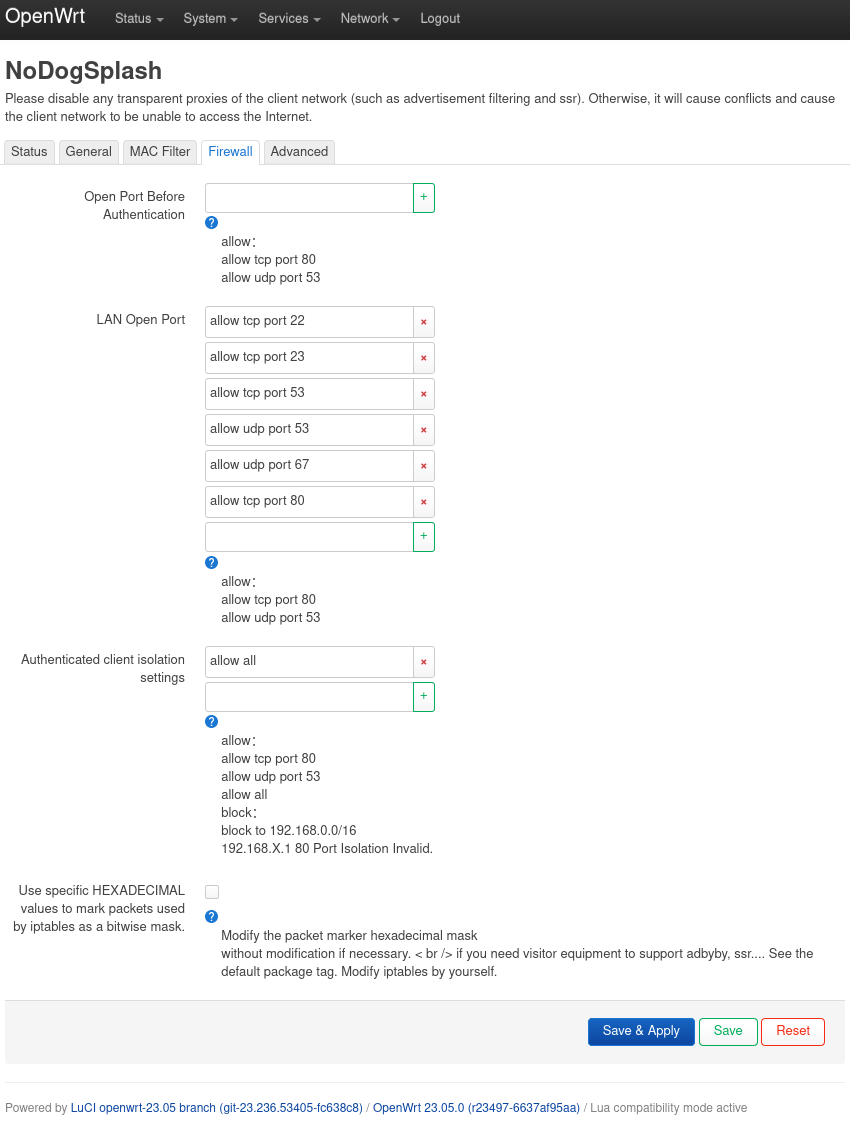
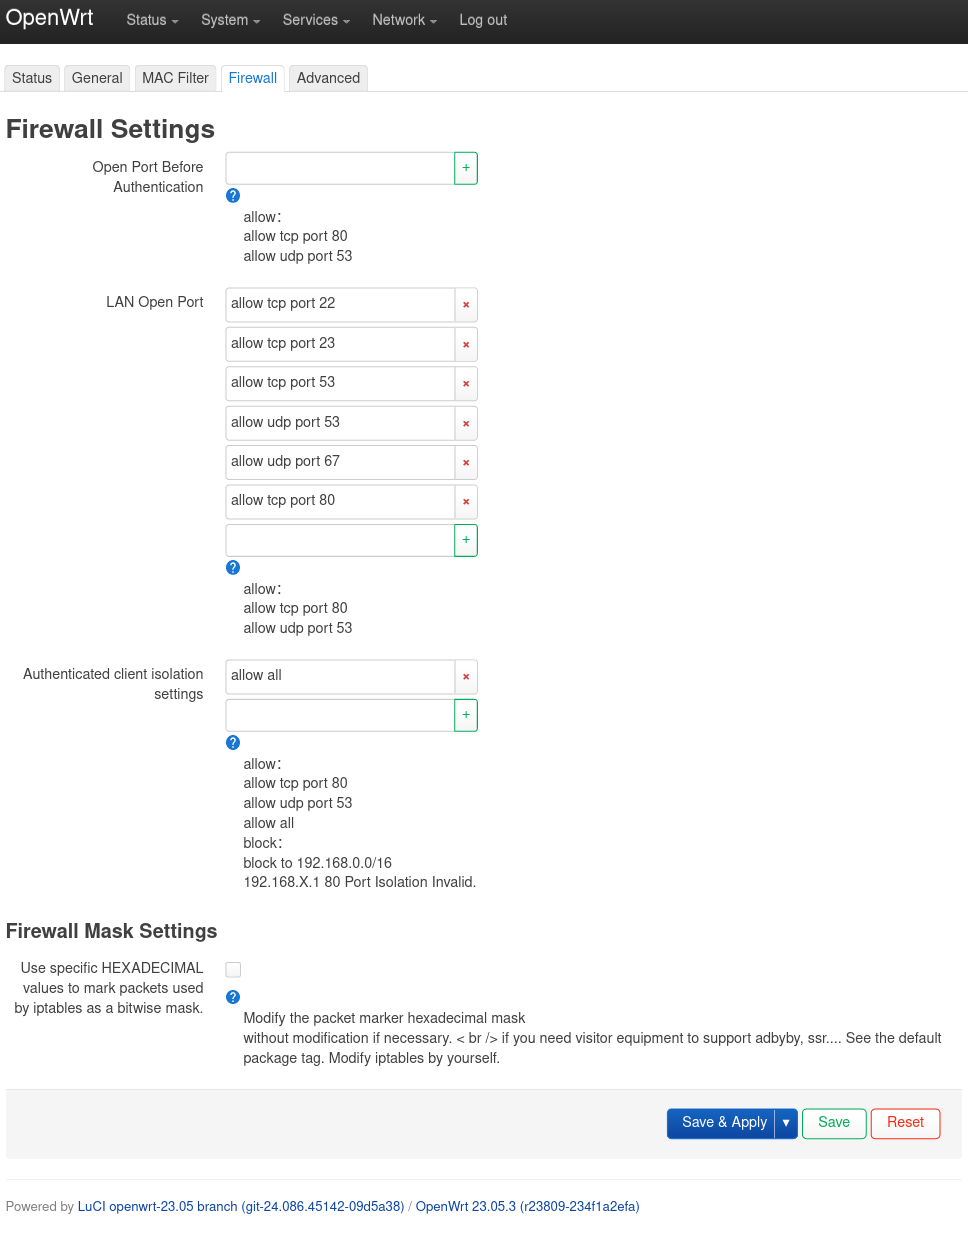
v2.0 - Added firewall.js

diff --git a/htdocs/luci-static/resources/view/nodogsplash/firewall.js b/htdocs/luci-static/resources/view/nodogsplash/firewall.js
@@ -1,0 +1,46 @@
+'use strict';
+'require form';
+'require view';
+
+// Project code format is tabs, not spaces
+return view.extend({
+	render: function() {
+		var m, s, o, i, t;
+		m = new form.Map('nodogsplash', _("Firewall Settings"));
+
+		s = m.section(form.TypedSection, 'nodogsplash');
+		s.anonymous = true;
+
+		o = s.option(form.DynamicList, "preauthenticated_users", _("Open Port Before Authentication"), _("<br/>allow：<br/>allow tcp port 80<br/>allow udp port 53"))
+		o.optional = true
+
+		o = s.option(form.DynamicList, "users_to_router", _("LAN Open Port"), _("<br/>allow：<br/>allow tcp port 80<br/>allow udp port 53"))
+		o.optional = true
+
+		o = s.option(form.DynamicList, "authenticated_users", _("Authenticated client isolation settings"), _("<br/>allow：<br/>allow tcp port 80<br/>allow udp port 53<br/>allow all<br/>block：<br/>block to 192.168.0.0/16<br/>192.168.X.1 80 Port Isolation Invalid."))
+		o.optional = true
+
+		s = m.section(form.TypedSection, 'nodogsplash', _("Firewall Mask Settings"));
+		s.anonymous = true;
+
+		o = s.option(form.Flag, "temp_mask", _("Use specific HEXADECIMAL values to mark packets used by iptables as a bitwise mask."),
+				_("<br/> Modify the packet marker hexadecimal mask <br/> without modification if necessary. < br /> if you need visitor equipment to support adbyby, ssr.... See the default package tag. Modify iptables by yourself. <br/>"))
+
+		o = s.option(form.Value, "fw_mark_authenticated", "fw_mark_authenticated");
+		o.placeholder = "30000"
+		o.datatype="integer"
+		o.depends({"temp_mask": "1"})
+
+		o = s.option(form.Value, "fw_mark_trusted", "fw_mark_trusted")
+		o.placeholder = "20000"
+		o.datatype="integer"
+		o.depends({"temp_mask": "1"})
+
+		o = s.option(form.Value, "fw_mark_blocked", "fw_mark_blocked")
+		o.placeholder = "10000"
+		o.datatype="integer"
+		o.depends({"temp_mask": "1"})
+
+		return m.render();
+	},
+});
